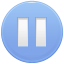
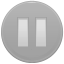
added some nice images for the video controls, implemented ipad layout for video page and fixed word wrapping issue in header with long video names

diff --git a/web-html5/src/main/webapp/resources/parleys/parleysIpad.css b/web-html5/src/main/webapp/resources/parleys/parleysIpad.css
@@ -91,6 +91,8 @@ div#logoBar {
     background: #a40202 url(#{utilBean.basePath}/resources/ipad/header_bg.jpg) repeat-x;
     border-bottom: 1px solid #000;
 
+    white-space:nowrap;
+    max-width: 100%;
     /* Turned shadows off, b/c they're not shown and cause a margin on the right
     box-shadow: 0px 2px 20px #000;
     -webkit-box-shadow: #000 0px 2px 20px;*/
@@ -101,7 +103,8 @@ div#logoBar ul {
 
 div#logoBar ul li {
     position: relative;
-    display: inline-block;
+    display: inline-table;
+    overflow-x: hidden;
     height: 75px;
     list-style: none;
 }
@@ -111,7 +114,7 @@ div#logoBar ul li a {
     padding: 20px;
     color: #fc0;
     font-weight: bold;
-    font-size: 18pt;
+    font-size: 14pt;
     text-shadow: 2px 2px 0 #000;
 }
 
@@ -302,4 +305,129 @@ div.pagingBar a.current.paging {
     background-color: #333;
 }
 div.pagingBar a.next.paging {
+}
+
+
+
+
+#mainContent {
+    border: 1px solid red;
+    background-color: #fcc;
+    position: absolute;
+    width: 100%;
+    height: 100%;
+    -webkit-perspective: 500;
+	/*-webkit-perspective: 400;*/
+	-webkit-transition-property: -webkit-transform;
+    -webkit-transition-duration: 0.5s;
+	-webkit-transition-timing-function: ease-in-out;
+	-webkit-transform: rotateY(0deg) translateZ(0px) translate(0,0);
+}
+
+#videoContainer {
+	position: absolute;
+	-webkit-transition: all 0.4s ease-in-out;
+	background-color: #000000;
+	-webkit-transform: rotateY(0deg) translateZ(0px) translate(0,0);
+	-webkit-transition-timing-function: ease-in-out;
+
+}
+
+#slidesContainer {
+	-webkit-transition: all 0.4s ease-in-out;
+	position: absolute;
+	background-color: #000000;
+}
+
+.slide {
+    width: 100%;
+    height: 100%;
+}
+
+#agenda {
+	-moz-border-radius: 10px;
+	-webkit-border-radius: 10px;
+	border: 5px solid #ffffff;
+	padding: 0px;
+	width: 380px;
+	bottom: 50px;
+    top: 0px;
+	background-color: #3b3b3b;
+	position: absolute;
+	-moz-box-shadow: 0 20px 40px #888;
+	-webkit-box-shadow: 0 10px 10px #888;
+	-webkit-transform: rotateY(0deg) translateZ(500px) translate(0,0);
+    -webkit-transition-property: -webkit-transform, opacity;
+    -webkit-transition-duration: 0.5s;
+	-webkit-transition-timing-function: ease-in-out;
+	opacity: 0;
+    overflow-y: scroll;
+}
+
+div#agenda li a {
+    -webkit-transition: all 0.3s ease-out;
+    color: #174867;
+    padding: 7px 15px 7px 15px;
+    -webkit-border-radius: 10px;
+    width: 250px;
+    display: block;
+    text-decoration: none;
+}
+
+div#agenda li {
+     -webkit-border-radius: 10px;
+    border: 1px solid black;
+    background: -webkit-gradient(linear, left top, left bottom, from(#4B4B4B), to(#343434));
+    margin-top: 5px;
+    height: 100%;
+}
+
+div#agenda li {
+    -webkit-transition: all 0.3s ease-out;
+}
+
+#chapters {
+    position: absolute;
+    left: 147px;
+    right: 0;
+    height: 30;
+    background-color: #8a2be2;
+}
+
+#chapters div {
+	background: -webkit-gradient(linear, left top, left bottom, from(#6b6b6b), to(#343434));
+	border: 1px black solid;
+	border-bottom: none;
+	border-top: none;
+	position: absolute;
+	width: 30px;
+	height: 100%;
+}
+
+#chapters div:hover {
+	background: -webkit-gradient(linear, left top, left bottom, from(#222222), to(#444444));
+}
+
+div#videoNavigationBarCursor {
+    border: none;
+    position: absolute;
+    left: -7px;
+    top: -5px;
+    width: 14px;
+    height: 34px;
+    display: block;
+    background: url(#{resource['img:progressbar_cursor.png']});
+    cursor: pointer;
+}
+
+div#videoNavigationBarCursor:hover {
+    border: none;
+    position: absolute;
+    left: -7px;
+    top: -5px;
+    width: 14px;
+    height: 34px;
+    display: block;
+    background: url(#{resource['img:progressbar_cursor.png']});
+    cursor: pointer;
 }

diff --git a/web-html5/src/main/webapp/resources/parleys/parleysIpadPortrait.css b/web-html5/src/main/webapp/resources/parleys/parleysIpadPortrait.css
@@ -74,3 +74,7 @@ div#upperPhotoContainer .featuredPhotoinfo h3 {
     font-style: italic;
     font-weight: normal;
 }
+
+div#mainContent {
+    height: 600px;
+}

diff --git a/web-html5/src/main/webapp/resources/parleys/parleysIpadLandscape.css b/web-html5/src/main/webapp/resources/parleys/parleysIpadLandscape.css
@@ -20,3 +20,7 @@ div#upperPhotoContainer {
 div#lowerThumbnailsContainer {
     width: 950px;
 }
+
+div#mainContent {
+    height: 480px;
+}
